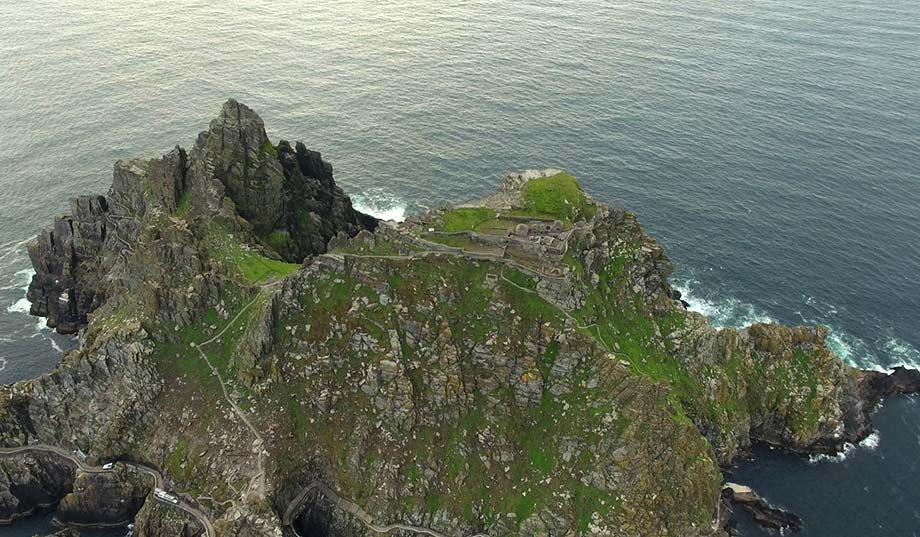
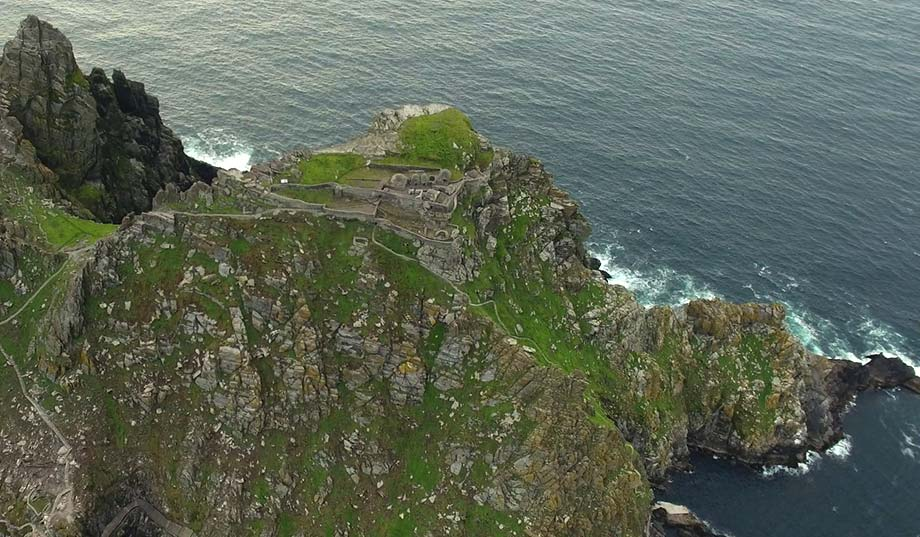
[update1908] update2

diff --git a/feature/2019/201908_01.html b/feature/2019/201908_01.html
@@ -111,8 +111,16 @@
         <noscript>Javascript を有効にしてください</noscript>
         <img src="../../img/feature/fullsize_dammy.gif" onContextmenu="return false" alt="" class="feature_dammy" />
     </div><!-- featureWideImage -->
-    <p class="wideCaption">島に最初に着いた修道士が雨風をしのいだと言われる岩陰には、十字架が刻まれています。</p>
 
+    <div class="featureSquareWrapper">
+        <p class="squareCaption left">島に最初に着いた修道士が雨風をしのいだと言われる岩陰には、十字架が刻まれています。</p>
+        <div class="featureSquareArea squareRight">
+            <div class="lazy squareImage" data-img="../../img/feature/2019/1908/skellig1_sq4.jpg">
+            </div><!-- squareImage -->
+            <noscript>Javascript を有効にしてください</noscript>
+            <img src="../../img/feature/square_dammy.gif" onContextmenu="return false" alt="" class="square_dammy" />
+        </div><!-- featureSquareArea --> 
+    </div><!-- featureSquareWrapper -->
 
     <div class="featureInterviewArea int1908">
         <p class="featureAsk">──気の遠くなるような作業ですね。孤島の岩山でどうやって修道院を作ったのでしょうか？</p>
